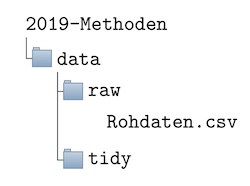
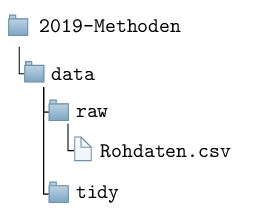
Create new figures for data chapter

Changed region(s): [[0.056, 0.2151, 0.532, 0.9409], [0.028, 0.0538, 0.728, 0.1882], [0.392, 0.6183, 0.952, 0.7258]]

diff --git a/figures/chap-data-Ordnerstruktur.tex b/figures/chap-data-Ordnerstruktur.tex
@@ -1,0 +1,77 @@
+\documentclass[border=10pt,multi,tikz]{standalone}
+\usepackage[edges]{forest}
+\definecolor{folderbg}{RGB}{124,166,198}
+\definecolor{folderborder}{RGB}{110,144,169}
+\newlength\Size
+\setlength\Size{4pt}
+\tikzset{%
+  folder/.pic={%
+    \filldraw [draw=folderborder, top color=folderbg!50, bottom color=folderbg] (-1.05*\Size,0.2\Size+5pt) rectangle ++(.75*\Size,-0.2\Size-5pt);
+    \filldraw [draw=folderborder, top color=folderbg!50, bottom color=folderbg] (-1.15*\Size,-\Size) rectangle (1.15*\Size,\Size);
+  },
+  file/.pic={%
+    \filldraw [draw=folderborder, top color=folderbg!5, bottom color=folderbg!10] (-\Size,.4*\Size+5pt) coordinate (a) |- (\Size,-1.2*\Size) coordinate (b) -- ++(0,1.6*\Size) coordinate (c) -- ++(-5pt,5pt) coordinate (d) -- cycle (d) |- (c) ;
+  },
+}
+\forestset{%
+  declare autowrapped toks={pic me}{},
+  declare boolean register={pic root},
+  pic root=0,
+  pic dir tree/.style={%
+    for tree={%
+      folder,
+      font=\ttfamily,
+      grow'=0,
+    },
+    before typesetting nodes={%
+      for tree={%
+        edge label+/.option={pic me},
+      },
+      if pic root={
+        tikz+={
+          \pic at ([xshift=\Size].west) {folder};
+        },
+        align={l}
+      }{},
+    },
+  },
+  pic me set/.code n args=2{%
+    \forestset{%
+      #1/.style={%
+        inner xsep=2\Size,
+        pic me={pic {#2}},
+      }
+    }
+  },
+  pic me set={directory}{folder},
+  pic me set={file}{file},
+}
+\begin{document}
+
+\begin{forest}
+  pic dir tree,
+  pic root,
+  for tree={
+    directory,
+  }, % START SPECIFYING DIR TREE
+  [Forschungsprojekt
+  [Forschungsprojekt.Rproj, file]
+  [.here, file]
+  [data
+  	[raw
+  		[Rohdaten1.csv, file]
+  		[Rohdaten2.csv, file]
+  	]
+  	[tidy
+  		[AufbereiteteDaten.csv, file]
+  	]
+    ]
+    [R
+    	[StatistischeAnalyse.R, file]
+    ]
+    [output
+    	[WunderbarerErgebnisplot.pdf, file]
+    ]
+  ]
+\end{forest}
+\end{document}

diff --git a/figures/data-data-classification.tex b/figures/data-data-classification.tex
@@ -1,0 +1,33 @@
+\documentclass[border=10pt,tikz]{standalone}
+\usepackage[edges]{forest}
+
+\forestset{
+  direction switch/.style={
+    for tree={edge+=thick, font=\sffamily},
+    where level>=2{folder, grow'=0}{for children=forked edge},
+    where level=4{}{draw},
+  },
+}
+\begin{document}
+
+\begin{forest}
+  % forest preamble: determine layout and format of tree
+  direction switch
+  [Daten
+    [Quantitative Daten
+      [Stetige Daten
+        [Intervall-skalierte Daten]
+        [Verhältnisdaten]
+      ]
+      [Diskrete Daten
+      ]
+    ]
+    [Qualitative Daten
+      [Nominale Daten
+      ]
+      [Ordinale Daten
+      ]
+    ]
+  ]
+\end{forest}
+\end{document}
